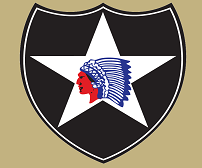
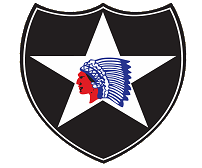
added image to PDF

diff --git a/src/convoy/resources/html/convoy.htm b/src/convoy/resources/html/convoy.htm
@@ -25,7 +25,7 @@
             font-family: capture;
         }
         .data {
-            text-align: center;
+            text-align: left;
         }
         #freqTable {
             border: 0;
@@ -40,17 +40,15 @@
         }
         #leftMissionInfo {
             font-size: 16pt;
-            //background: url('null') no-repeat center center;
-        }
-        #leftMissionInfoTable {
-            opacity: 0.9;
-            -ms-filter: "progid:DXImageTransform.Microsoft.Alpha(Opacity=90)";
-            filter: alpha(opacity=90);
         }
         .additionalText {
             height: 150px;
         }
-#classification{text-align: center;font-weight: bold;font-size: 24pt;color: black;}
+        img {
+            width: 202px;
+            height: 172px;
+        }
+#classification{text-align: center;font-weight: bold;font-size: 18pt;color: black;}
     </style>
 </head>
 
@@ -64,7 +62,7 @@
                     <table id="leftMissionInfoTable">
                         <!-- left mission info table //-->
                         <tr>
-                            <td colspan="2"></td>
+                            <td rowspan="6" id="unitPatch"><img src="file:\/C:/Netbeans/ConvoyQuick/build/classes/convoy/resources/images/2id.png" alt="unitPatch"/></td>
                         </tr>
                         <tr>
                             <td colspan="2" id="classification">FOR OFFICIAL USE ONLY</td>
@@ -74,20 +72,20 @@
                         </tr>
                         <tr>
                             <td class="label">Mission #</td>
-                            <td class="data" id="misisonNumber">qewrtqwertq</td>
+                            <td class="data" id="misisonNumber"></td>
                         </tr>
                         <tr>
                             <td class="label">FROM:</td>
-                            <td class="data" id="leftFrom">qewrtqwertq</td>
+                            <td class="data" id="leftFrom"></td>
                         </tr>
                         <tr>
                             <td class="label">To:</td>
-                            <td class="data" id="leftTo">qewrtqwertq</td>
+                            <td class="data" id="leftTo"></td>
                         </tr>
                         <tr>
-                            <td class="additionalText" colspan="2" id="leftAdditionaInfo">
+                            <td class="additionalText" colspan="3" id="leftAdditionaInfo">
                                 <pre>
-
+Addtional Information
 </pre>
                             </td>
                         </tr>
@@ -100,32 +98,32 @@
                         <tr>
                             <!-- cc and acc row //-->
                             <td class="label">CC -</td>
-                            <td class="data" colspan="2" id="cc">qewrtqwertq</td>
+                            <td class="data" colspan="2" id="cc"></td>
                             <td class="label">ACC -</td>
-                            <td class="data" colspan="2" id="acc">qewrtqwertq</td>
+                            <td class="data" colspan="2" id="acc"></td>
                         </tr>
                         <tr>
                             <!-- staging area row //-->
                             <td class="label">Staging Area -</td>
-                            <td class="data" colspan="5" id="stagingArea">qewrtqwertq</td>
+                            <td class="data" colspan="5" id="stagingArea"></td>
                         </tr>
                         <tr>
                             <!-- from l/u sp //-->
                             <td class="label">From -</td>
-                            <td class="data" id="rightFrom">qewrtqwertq</td>
+                            <td class="data" id="rightFrom"></td>
                             <td class="label">L/U -</td>
-                            <td class="data" id="fromLu">qewrtqwertq</td>
+                            <td class="data" id="fromLu"></td>
                             <td class="label">SP -</td>
-                            <td class="data" id="fromSP">qewrtqwertq</td>
+                            <td class="data" id="fromSP"></td>
                         </tr>
                         <tr>
                             <!-- to l/u sp//-->
                             <td class="label">To -</td>
-                            <td class="data" id="rightTo">qewrtqwertq</td>
+                            <td class="data" id="rightTo"></td>
                             <td class="label">L/U -</td>
-                            <td class="data" id="toLu">qewrtqwertq</td>
+                            <td class="data" id="toLu"></td>
                             <td class="label">SP -</td>
-                            <td class="data" id="toSP">qewrtqwertq</td>
+                            <td class="data" id="toSP"></td>
                         </tr>
                         <tr>
                             <!-- frequency row //-->

diff --git a/src/convoy/pdf/GenerateHtml.java b/src/convoy/pdf/GenerateHtml.java
@@ -31,6 +31,8 @@ public class GenerateHtml {
         
         String classificationColor = "";
         
+        System.out.print(watermark);
+                        
         if(classification.equalsIgnoreCase("SECRET")){
             classificationColor = "red";
         }
@@ -68,7 +70,7 @@ public class GenerateHtml {
 "            font-family: capture;\n" +
 "        }\n" +
 "        .data {\n" +
-"            text-align: center;\n" +
+"            text-align: left;\n" +
 "        }\n" +
 "        #freqTable {\n" +
 "            border: 0;\n" +
@@ -83,17 +85,15 @@ public class GenerateHtml {
 "        }\n" +
 "        #leftMissionInfo {\n" +
 "            font-size: 16pt;\n" +
-"            //background: url('" + watermark + "') no-repeat center center;\n" +
-"        }\n" +
-"        #leftMissionInfoTable {\n" +
-"            opacity: 0.9;\n" +
-"            -ms-filter: \"progid:DXImageTransform.Microsoft.Alpha(Opacity=90)\";\n" +
-"            filter: alpha(opacity=90);\n" +
 "        }\n" +
 "        .additionalText {\n" +
 "            height: 150px;\n" +
 "        }\n" +
-         "#classification{text-align: center;font-weight: bold;font-size: 24pt;color: " + classificationColor +";}\n" +
+"        img {\n" +
+"            width: 202px;\n" +
+"            height: 172px;\n" +
+"        }\n" +
+         "#classification{text-align: center;font-weight: bold;font-size: 18pt;color: " + classificationColor +";}\n" +
 "    </style>\n" +
 "</head>\n" +
 "\n" +
@@ -107,7 +107,7 @@ public class GenerateHtml {
 "                    <table id=\"leftMissionInfoTable\">\n" +
 "                        <!-- left mission info table //-->\n" +
 "                        <tr>\n" +
-"                            <td colspan=\"2\"></td>\n" +
+"                            <td rowspan=\"6\" id=\"unitPatch\"><img src=\"" + "file:\\" + watermark + "\" alt=\"unitPatch\"/></td>\n" +
 "                        </tr>\n" +
 "                        <tr>\n" +
 "                            <td colspan=\"2\" id=\"classification\">" + classification +"</td>\n" +
@@ -128,7 +128,7 @@ public class GenerateHtml {
 "                            <td class=\"data\" id=\"leftTo\">" + leftTo+ "</td>\n" +
 "                        </tr>\n" +
 "                        <tr>\n" +
-"                            <td class=\"additionalText\" colspan=\"2\" id=\"leftAdditionaInfo\">\n" +
+"                            <td class=\"additionalText\" colspan=\"3\" id=\"leftAdditionaInfo\">\n" +
 "                                <pre>\n" +
 "" + leftAdditionalText +"\n" +
 "</pre>\n" +
@@ -249,7 +249,7 @@ public class GenerateHtml {
 "\n" +
 "</html>");
                 
-                Desktop.getDesktop().browse(f.toURI());
+                //Desktop.getDesktop().browse(f.toURI());
             }
         }catch(IOException ex){
         }

diff --git a/src/convoy/gui/MainWindow.java b/src/convoy/gui/MainWindow.java
@@ -28,11 +28,18 @@ import javax.swing.JOptionPane;
 public final class MainWindow extends javax.swing.JFrame {
 
     private static final MainWindow frame = new MainWindow();
+    
+    private String imagePath;
+    
+    public String getImagePath(){
+        return this.imagePath;       
+    }
 
     /**
      * Creates new form mainWindow
      */
     public MainWindow() {
+        this.imagePath = "file:\\" + getClass().getResource("/convoy/resources/images/2id.png").getPath();
 
         initComponents();
         makeSelectPanelsTransparent();
@@ -283,7 +290,7 @@ public final class MainWindow extends javax.swing.JFrame {
 
                 GenerateHtml gh = new GenerateHtml();
                 gh.generateHtml(
-                        null,
+                        this.getImagePath(),
                         this.leftMissionInfoPanel1.getClassification(),
                         this.leftMissionInfoPanel1.getMissionNumber(),
                         this.leftMissionInfoPanel1.getFrom(),
@@ -328,6 +335,9 @@ public final class MainWindow extends javax.swing.JFrame {
         URL url = null;
         try {
             url = new URL("file:\\" + loadFile.getDirectory() + file);
+            
+            imagePath = loadFile.getDirectory() + file;
+            
         } catch (MalformedURLException ex) {            
             Logger.getLogger(MainWindow.class.getName()).log(Level.SEVERE, null, ex);
         }

diff --git a/src/convoy/gui/LeftMissionInfoPanel.java b/src/convoy/gui/LeftMissionInfoPanel.java
@@ -7,6 +7,7 @@ package convoy.gui;
 import java.awt.Font;
 import java.awt.FontFormatException;
 import java.io.IOException;
+import javax.swing.Icon;
 import javax.swing.ImageIcon;
 
 /**
@@ -61,6 +62,10 @@ public class LeftMissionInfoPanel extends javax.swing.JPanel {;
         
         return this.jLabel1.getHeight();
         
+    }
+    public Icon getIcon(){
+        
+        return this.jLabel1.getIcon();        
     }
     
     
